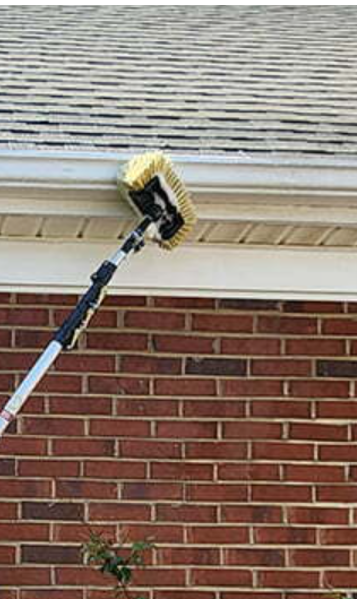
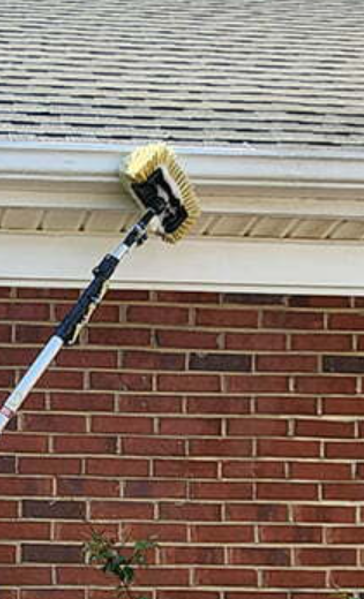
Services-Fit images to frame (Mobile)

diff --git a/src/config/servicesConfig.ts b/src/config/servicesConfig.ts
@@ -8,7 +8,7 @@ export const servicesConfig = {
         url: '/services#Surfaces',
         aria_label: "Surface Pressure Washing",
         src: siteConfig.OSW_IMG.SURFACE3,
-        className: "absolute scale-[2.2] left-[-130px] top-[40px]",
+        className: "",
         service: {
             titleMsg: "Surface Pressure Washing",
             subTitleMsg: "Driveways, Patios, Pool Decks, Porches, Stoops, Walkways",
@@ -20,7 +20,7 @@ export const servicesConfig = {
                     detailDescription: "Accumulating grime seems to be a superpower of hard surfaces.  While there is no miracle to keep them clean forever, with our refined C-3P-O process you'll get the longest lasting results possible.",
                     detailImageURL: siteConfig.OSW_IMG.SURFACE4,
                     detailImageAlt: "Clean Driveway",
-                    detailImageClass:  "absolute scale-[1.3] left-[0px] top-[40px]",
+                    detailImageClass:  "",
                 },
                 {
                     detailSummary:"Stains and Chemicals",
@@ -45,7 +45,7 @@ export const servicesConfig = {
         url: '/services#Siding',
         aria_label: "Siding Soft Washing",
         src: siteConfig.OSW_IMG.SIDING1,
-        className: "absolute scale-[2.2] left-[-130px] top-[60px]",
+        className: "",
         service: {
             titleMsg: "Siding Soft Washing",
             subTitleMsg: "Gentle whole-home cleaning.",
@@ -82,7 +82,7 @@ export const servicesConfig = {
         url: '/services#Decks',
         aria_label: "Surface Pressure Washing",
         src: siteConfig.OSW_IMG.DECK1,
-        className: "absolute scale-[5.1] left-[100px] top-[-140px]",
+        className: "",
         service: {
             titleMsg: "Deck Soft Washing",
             subTitleMsg: "Restore your deck's natural beauty.",
@@ -94,14 +94,14 @@ export const servicesConfig = {
                     detailDescription: "We promise to never use high pressure on any deck material.  You can have peace of mind that your deck will not be damaged by our gentle soft deck wash service.",
                     detailImageURL: siteConfig.OSW_IMG.DECK1,
                     detailImageAlt: "",
-                    detailImageClass:  "absolute scale-[1.7] left-[-40px] top-[80px]",
+                    detailImageClass:  "",
                 },
                 {
                     detailSummary:"Brightening, Sealing, Restaining",
                     detailDescription: "People are amazed at the magical transformations we can bring to your outdoor spaces.  Our experts understand the science of wood care,  and have a knack for restoring its natural beauty. Whether your looking to brighten, seal, or restain, your deck, we'll make it look as though it were touched by an enchantment.",
                     detailImageURL: siteConfig.OSW_IMG.DECK1,
                     detailImageAlt: "",
-                    detailImageClass:  "absolute scale-[1.7] left-[-40px] top-[80px]",
+                    detailImageClass:  "",
                 },
             ],
         },
@@ -142,7 +142,7 @@ export const servicesConfig = {
         url: '/services#Roofs',
         aria_label: "Surface Pressure Washing",
         src: siteConfig.OSW_IMG.Roof1,
-        className: "absolute scale-[1.7] left-[-62px] top-[50px]",
+        className: "",
         service: {
             titleMsg: "Roof Soft Washing",
             subTitleMsg: "A natural clean for a lasting roof",
@@ -203,7 +203,7 @@ export const servicesConfig = {
         url: '/services#Boat & RVs',
         aria_label: "Surface Pressure Washing",
         src: siteConfig.OSW_IMG.SURFACE2,
-        className: "absolute scale-[3.0] left-[60px] top-[40px]",
+        className: "",
         service: {
             titleMsg: "Siding Soft Washing",
             subTitleMsg: "Hey",
@@ -219,7 +219,7 @@ export const servicesConfig = {
         url: '/services#Graffiti',
         aria_label: "Surface Pressure Washing",
         src: siteConfig.OSW_IMG.SURFACE2,
-        className: "absolute scale-[3.0] left-[60px] top-[40px]",
+        className: "",
         service: {
             titleMsg: "Siding Soft Washing",
             subTitleMsg: "Hey",
@@ -234,7 +234,7 @@ export const servicesConfig = {
         url: '/services#Commercial',
         aria_label: "Surface Pressure Washing",
         src: siteConfig.OSW_IMG.Commercial1,
-        className: "absolute scale-[1.85] left-[-20px] top-[90px]",
+        className: "",
         service: {
             titleMsg: "Commercial Services",
             subTitleMsg: "Cost Effective, Time Efficient, Highest Quality, Best Value",
@@ -266,7 +266,7 @@ export const servicesConfig = {
         url: '/services?service=siding',
         aria_label: "Surface Pressure Washing",
         src: siteConfig.OSW_IMG.SIDING1,
-        className: "absolute scale-[2.5] left-[-120px] top-[40px]",
+        className: "",
         service: {
             titleMsg: "Siding Soft Washing",
             tsubTitleMsg: "Hey",
@@ -278,21 +278,21 @@ export const servicesConfig = {
                     detailDescription: "Vinyl siding looks good, it’s versatile, and has a great lifespan. However, it does need to be maintained in order to be able to reach its full durability. Our house washing service will remove any staining, moss, and other residues to have the siding on your home looking brand new.",
                     detailImageURL: siteConfig.OSW_IMG.Birdbath1,
                     detailImageAlt: "",
-                    detailImageClass:  "absolute scale-[1.7] left-[-40px] top-[80px]",
+                    detailImageClass:  "",
                 },
                 {
                     detailSummary:"Stucco",
                     detailDescription: "Stucco sidings, with their unique texture and classic appearance, need special care to preserve their beauty. Over time, they can attract dirt and grime that’s hard to remove. Our specialized house washing methods ensure your stucco remains clean and vibrant, enhancing its durability while maintaining its distinctive look.",
                     detailImageURL: siteConfig.OSW_IMG.Birdbath1,
                     detailImageAlt: "",
-                    detailImageClass:  "absolute scale-[1.7] left-[-40px] top-[80px]",
+                    detailImageClass:  "",
                 },
                 {
                     detailSummary:"Hardie Board",
                     detailDescription: "Hardie Board siding is renowned for its robustness and authentic look. Yet, without proper upkeep, even the toughest Hardie Board can lose its charm. Our house washing service dives deep to clear off any muck, mildew, or marks. Once we’re done, your Hardie Board siding will not only recapture its original allure but also be primed for many more years of service.",
                     detailImageURL: siteConfig.OSW_IMG.Paver1,
                     detailImageAlt: "",
-                    detailImageClass:  "absolute scale-[1.8] left-[0px] top-[85px]",
+                    detailImageClass:  "",
                 }, 
             ],
         },

diff --git a/src/components/CardServices.tsx b/src/components/CardServices.tsx
@@ -232,7 +232,7 @@ export function CardServicesv4({
         
 
         {/* DESKTOP CARD */}
-        <div className='relative hidden desktop:flex w-[235px] h-[400PX] justify-center rounded-xl shadow-lg mb-2'>
+        <div className='relative hidden desktop:flex w-[235px] h-[400px] justify-center rounded-xl shadow-lg mb-2'>
 
           {/*  */}
           {cardURL === "" ? 

diff --git a/src/app/services/page.tsx b/src/app/services/page.tsx
@@ -60,8 +60,8 @@ function ServicePage() {
 												<Image
 													src={detail.detailImageURL}
 													alt=""
-													width={600}
-													height={600}
+													width={235}
+													height={400}
 													className={detail.detailImageClass}
 												/>
 											</CardServicesv4>
